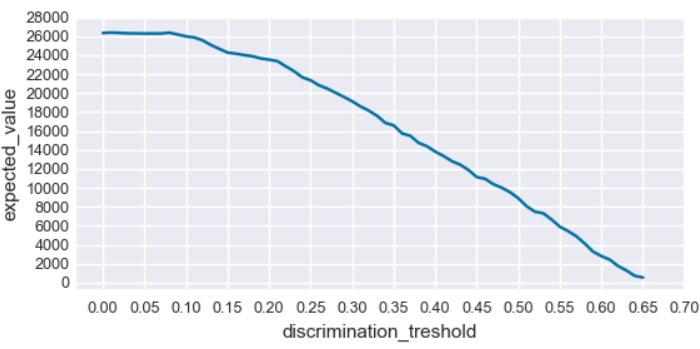
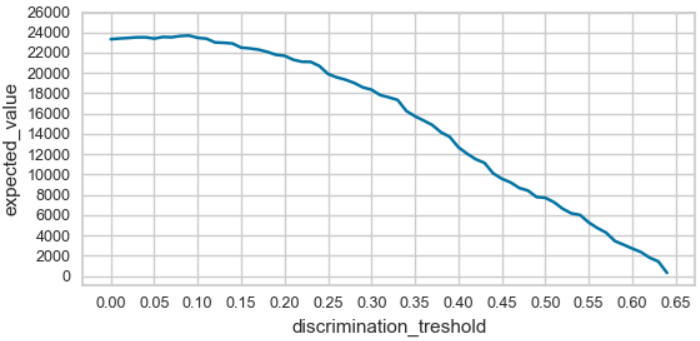
Cambios_p5

diff --git a/content/project/project5/index.md b/content/project/project5/index.md
@@ -94,15 +94,21 @@ CR[\%] = \frac{N_C}{N_L}\cdot 100,
 $$
 {{< /math >}}
 where {{< math >}}$N_C${{< /math >}} and {{< math >}}$N_L${{< /math >}} are de number of final customers and leads, respectively.
-* <text style='color: #BBDEFC; font-weight: normal;'>Sales department workload:</text> Number of potential customers to be managed by the sales team.
-* <text style='color: #BBDEFC; font-weight: normal;'>Lost investment in unconverted lead management:</text> Cost of commercial efforts directed toward potential customers who ultimately do not purchase the company’s product.
+* <text style='color: #BBDEFC; font-weight: normal;'>Sales department workload ({{< math >}}$N_L${{< /math >}}):</text> Number of potential customers to be managed by the sales team.
+* <text style='color: #BBDEFC; font-weight: normal;'>Lost investment in unconverted lead management ({{< math >}}$Cost_{not \ conv \ leads}${{< /math >}}):</text> Cost of commercial efforts directed toward potential customers who ultimately do not purchase the company’s product. It is defined as:
+{{< math >}}
+$$
+Cost_{not \ conv \ leads} = \left( N_L - N_C \right) \cdot Cost_{leads},
+$$
+{{< /math >}}
+where {{< math >}}$Cost_{leads}${{< /math >}} is the cost per lead arising from commercial and marketing actions.
 * <text style='color: #BBDEFC; font-weight: normal;'>Sales profit (SP):</text> Net profit obtained from the sales of the online course. It is defined as:
 {{< math >}}
 $$
-SP[$] = \left( Price_{prod} \cdot CR - Cost_{leads} \right) \cdot N_L,
+SP[$] = \left( Price_{prod} - Cost_{leads} \right) \cdot N_C - Cost_{not \conv \ leads},
 $$
 {{< /math >}}
-where {{< math >}}$Price_{prod}${{< /math >}} is the price of the online course, and {{< math >}}$Cost_{leads}${{< /math >}} is the cost per lead arising from commercial and marketing actions.
+being {{< math >}}$Price_{prod}${{< /math >}} the price of the online course.
 
 ### 4.4 Entities and Data
 {style="color: #BBDEFC; font-weight: normal"}
@@ -111,7 +117,7 @@ The most relevant entities from which we can obtain data are summarized below:
 
 * <text style='color: #BBDEFC; font-weight: normal;'>Leads:</text> Leads historical data is provided by the client in a *.csv* file, which contains information about 37 different features for 9240 different leads.
 * <text style='color: #BBDEFC; font-weight: normal;'>Product:</text> The product that the company is trying to sell is a high-value online course design to train proffesionals in the data science sector. Its price is 49.99$.
-* <text style='color: #BBDEFC; font-weight: normal;'>Commercial channels:</text> The main commercial channels are phone calls, sms, emails, web chat, ad campaings, and a subcontracted lead management company. The lead management average cost is estimated at 3.50$ per lead.
+* <text style='color: #BBDEFC; font-weight: normal;'>Commercial channels:</text> The main commercial channels are phone calls, sms, emails, web chat, ad campaings, and a subcontracted lead management company. The lead management average cost is estimated at 5$ per lead.
 
 Before conducting any analysis or data transformation, it is crucial to set aside a portion of the dataset for validation purposes. This reserved data is used to validate the models after they have been trained and tested on the remaining data. Specifically, 30% of the dataset is saved for validation, while the remaining 70% is used for training the models.
 
@@ -186,7 +192,7 @@ Once the exploratory data analysis has been conducted, the following insights ha
 
 **Lead-to-customer conversion rate:**
 
-* <text style='color: #BBDEFC; font-weight: normal;'>Insight 4:</text> The current conversion rate of the company is 41.56%.
+* <text style='color: #BBDEFC; font-weight: normal;'>Insight 4:</text> The current conversion rate of the company is 41.70%.
 * <text style='color: #BBDEFC; font-weight: normal;'>Insight 5:</text> Working professionals presents the highest conversion rate of 90.74%.
 * <text style='color: #BBDEFC; font-weight: normal;'>Insight 6:</text> Unemployed leads, which are the largest group, have a low conversion rate of 36.52%.
 * <text style='color: #BBDEFC; font-weight: normal;'>Insight 7:</text> Almost all leads that comes from the source *Reference* are converted into customers (89.19% conversion rate). However, only 4.56% of leads come from this source.
@@ -385,9 +391,9 @@ Once the predictive model is trained and tested, the next step is to specify the
 
 Therefore, by calculating the confusion matrix and multiplying it by the economic impact matrix for each possible value of the discrimination threshold, it becomes possible to determine which threshold maximizes the resulting function and, consequently, the company’s ROI. The results are shown in the image below.
 
-{{< figure src="/project5/exhibit_7.png" title="Exhibit 7. Expected value for each discrimination treshold. Optimal value is found at 0.01." >}}
+{{< figure src="/project5/exhibit_7.png" title="Exhibit 7. Expected value for each discrimination treshold. Optimal value is found at 0.09." >}}
 
-In this case, the discrimination threshold value that provides the higher return on investment for the company is 0.01.
+In this case, the discrimination threshold value that provides the higher return on investment for the company is 0.09.
 
 ---
 
